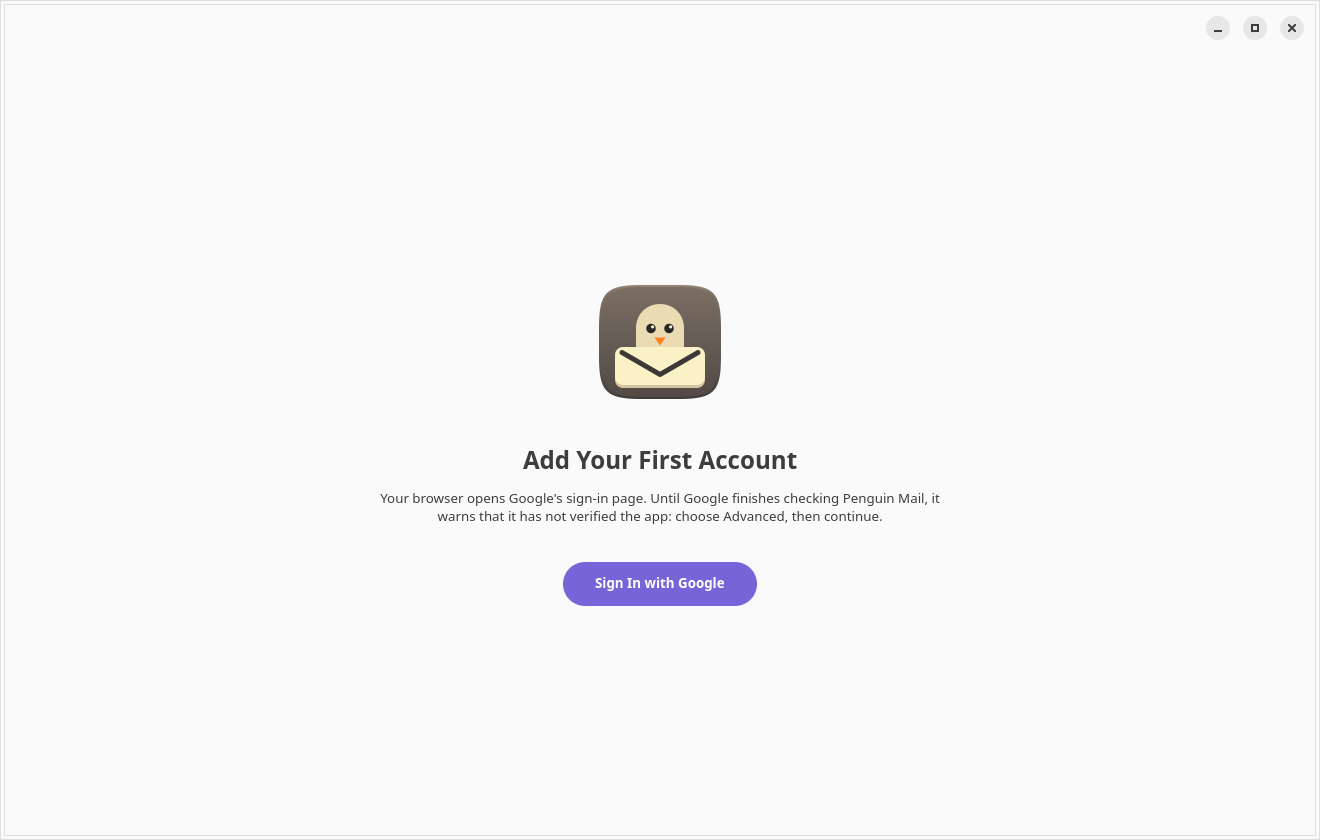
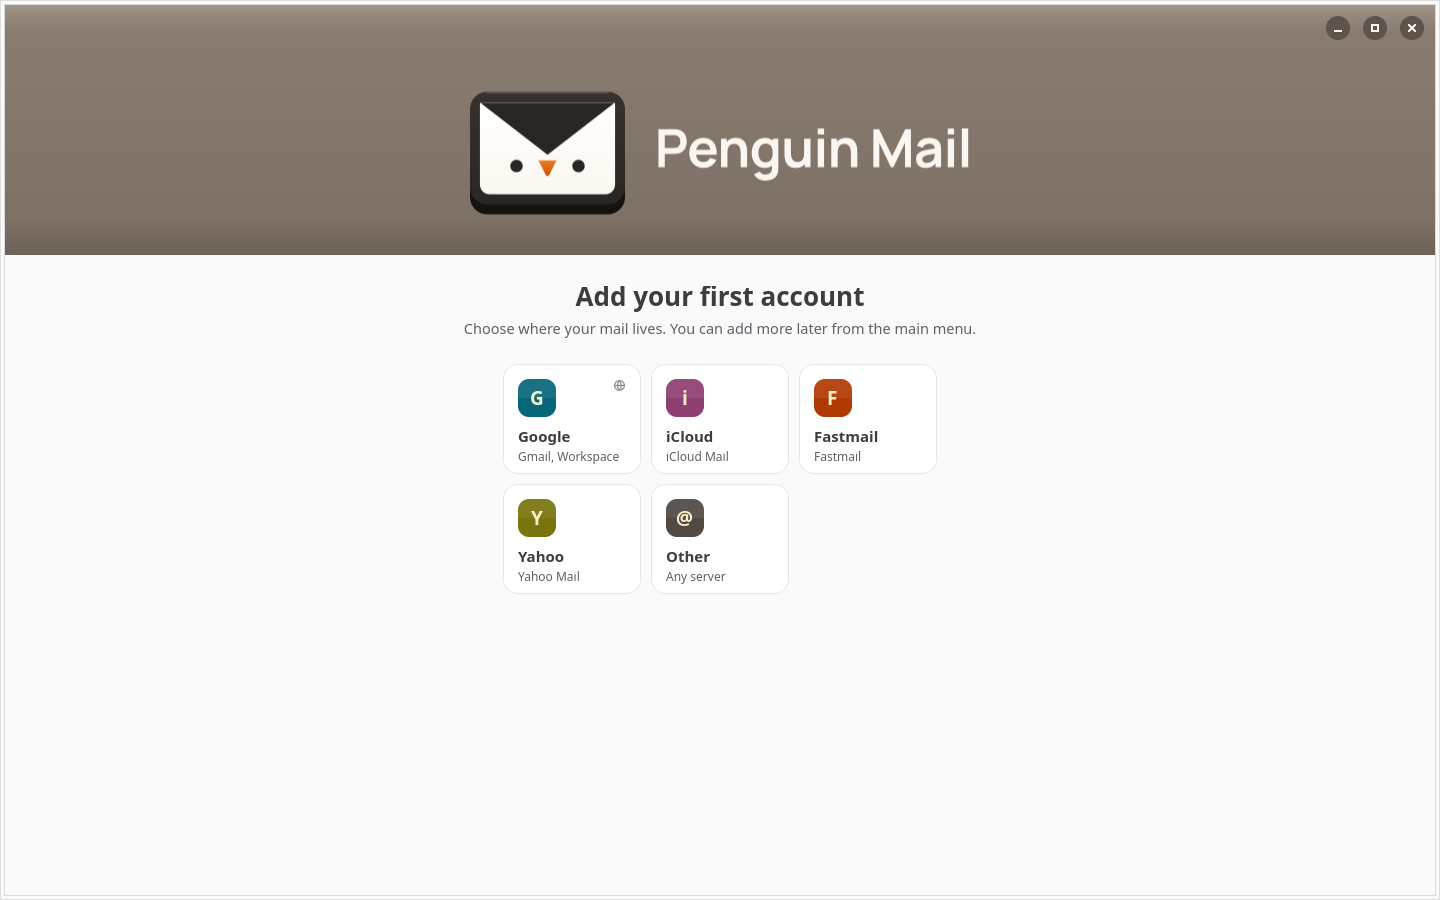
Bring the Add Account pages within a few pixels of the mockups
Each page was photographed in the demo, light and dark, and compared with
its board row by row; the spacings, row heights, card tints and link
positions now land within one or two pixels. The accessibility walk opens
the dialog on its tiles and its Other page, and the welcome screenshot is
retaken from the new first-run window at 1440 by 900.

diff --git a/app/data/style.css b/app/data/style.css
@@ -1243,8 +1243,6 @@ list.post-field > row { min-height: 51px; }
 .post-fields > .post-card { margin-top: 12px; }
 .post-fields > list.post-list { margin-top: 19px; }
 .post-dialog list.boxed-list { box-shadow: 0 0 0 1px var(--post-line); }
-list.post-field.post-wrong { box-shadow: 0 0 0 2px var(--post-err); }
-list.post-field.post-wrong row .title { color: var(--post-err); }
 
 .post-card { padding: 13px 16px 8px; border-radius: 12px; margin-top: 16px; }
 .post-fields > .post-card.post-first-card { margin-top: 17px; margin-bottom: 37px; }
@@ -1337,7 +1335,19 @@ list.post-list row image.post-down-icon { color: var(--post-err); }
 .post-fields > list.post-list.post-tight { margin-top: 15px; }
 
 /* The first-run window. */
-.post-first-title { font-size: 26px; font-weight: 800; margin-top: 30px; }
-.post-first-lede { font-size: 14.5px; color: var(--post-dim); margin-top: 8px; }
-.post-first .post-tiles { margin-top: 26px; margin-bottom: 32px; }
+.post-first-title { font-size: 26px; font-weight: 800; margin-top: 23px; }
+.post-first-lede { font-size: 14.5px; color: var(--post-dim); margin-top: 4px; }
+.post-first .post-tiles { margin-top: 27px; margin-bottom: 32px; }
 .post-waiting .post-note { margin-top: 0; }
+list.post-closed-list > row > box.header { margin: -2px 12px -1px; }
+list.post-field.post-wrong > row,
+list.post-field.post-wrong > row:focus-within { outline: 2px solid var(--post-err); outline-offset: -2px; }
+list.post-field.post-wrong > row label.subtitle,
+list.post-field.post-wrong > row:focus-within label.subtitle { color: var(--post-err); }
+/* The mockup sets a link's arrow 16 px in from the heading above it, with
+   a wider gap to its words than a button usually has. */
+.post-links button.link { margin-left: 16px; }
+.post-links buttoncontent > box { border-spacing: 9px; }
+.post-links buttoncontent image { -gtk-icon-size: 13px; }
+.post-card.with-source .post-card-source { line-height: 1.13; }
+.post-card.with-source .post-links { margin-top: 18px; margin-bottom: 4px; }

diff --git a/app/src/ui/add_account.rs b/app/src/ui/add_account.rs
@@ -350,6 +350,7 @@ impl Card {
         self.title.set_text(title);
         self.body.set_text(body);
         self.source.set_visible(false);
+        self.area.remove_css_class("with-source");
         self.said.set_visible(false);
         while let Some(child) = self.links.first_child() {
             self.links.remove(&child);
@@ -365,6 +366,7 @@ impl Card {
     fn show_source(&self, source: &str) {
         self.source.set_text(source);
         self.source.set_visible(true);
+        self.area.add_css_class("with-source");
     }
 
     fn show_said(&self, said: Option<&str>) {
@@ -1054,9 +1056,22 @@ fn added_page() -> AddedPage {
     folder_list.add_css_class("post-folders");
     let mut folders = Vec::new();
     for (role, icon, name) in [
-        (MailRole::Inbox, "penguin-mail-inbox-symbolic", gettext("Inbox")),
-        (MailRole::Sent, "mail-send-symbolic", gettext("Sent")),
-        (MailRole::Archive, "penguin-mail-archive-symbolic", gettext("Archive")),
+        // The sidebar's own names, so each folder reads as it does there.
+        (
+            MailRole::Inbox,
+            "penguin-mail-inbox-symbolic",
+            crate::ui::Standard::Inbox.name(),
+        ),
+        (
+            MailRole::Sent,
+            "mail-send-symbolic",
+            crate::ui::Standard::Sent.name(),
+        ),
+        (
+            MailRole::Archive,
+            "penguin-mail-archive-symbolic",
+            mailrs_domain::translate::pgettext("mailbox", "Archive"),
+        ),
     ] {
         let state = label("", &["post-folder-state", "numeric"]);
         state.set_xalign(1.0);
@@ -2166,6 +2181,7 @@ impl Dialog {
             page.failed_retry.grab_focus();
         } else {
             page.password.grab_focus();
+            page.password.set_position(-1);
         }
         page.failed
             .area

diff --git a/scripts/screenshots.py b/scripts/screenshots.py
@@ -378,8 +378,8 @@ def welcome():
     # presses the button, so nothing reaches Google.
     run = launch(args=())
     window = window_titled("Penguin Mail")
-    resize(window, 1320, 840)
-    find(name="Sign In with Google", patience=60)
+    resize(window, 1440, 900)
+    find(name="Google, Gmail, Workspace, signs in through your browser", patience=60)
     settle(3)
     capture(window, "welcome")
     return run

diff --git a/CONTEXT.md b/CONTEXT.md
@@ -358,6 +358,8 @@ Terms the code and its docs use for Gmail mail. The `domain` crate holds the cod
 
 **Discovery**: finding the mail servers for an address the person typed. The provider table answers by the exact domain with no network; otherwise the MX match, the domain's own autoconfig file, Mozilla's ISPDB, the MX host's settings, SRV records and a probe run side by side, and the highest-priority step that found something wins, each step dropped after 10 seconds. Only the address's domain goes out, and no name above it is ever built. `mailrs_discover::find`, answering a `Found`: a verdict and candidate servers, each marked with where it came from and whether the person must confirm its host names. _Avoid_: autodetect, autoconfig (which is one of its steps), Autodiscover (Microsoft's, which it never calls).
 
+**Provider advice**: what Add Account's address page says about an address before Continue, from the provider table alone and with nothing sent anywhere: that the provider wants an app password, signs in through the browser, or lets no other mail app in. A provider tile picked on the first page shows its advice before any address is typed. `crate::add_account::post::advice`. _Avoid_: suggestion, which is the correction of a mistyped domain.
+
 **IDLE connection**: the one IMAP connection per account that waits in IDLE (RFC 2177) on the mailbox the caller names, usually the Inbox, so the server reports new mail there as it arrives; a server without IDLE gets no such connection. The adapter ends the IDLE and issues it again every 25 minutes, and the engine keeps one watch across its polls. At most two more connections run sync and actions. `mailrs_imap::ImapClient::idle`. `MailBackend::watch` ends when the server reports a change, which wakes the engine's loop at once. A server that sends more during IDLE than the client takes loses the connection (`Woke::Dropped`); the engine syncs, and the next IDLE waits a minute, doubling at each drop in a row up to 15 minutes. Other mailboxes wait for the slow poll: every 5 minutes with the window open, every 15 with only the tray. A server without IDLE has its Inbox polled every minute. _Avoid_: push connection, listener.
 
 **Next event card**: the card at the foot of the mail sidebar that names the next event on the calendars the person shows, from three hours before it starts, or the event under way until it ends unless another starts within a quarter of an hour. A click opens the event in the calendar. `mailrs::ui::calendar::next::next_up`. _Avoid_: agenda, upcoming widget.

diff --git a/CHANGELOG.md b/CHANGELOG.md
@@ -129,6 +129,11 @@ the [releases page](https://github.com/c9dev/penguin-mail/releases).
   Ctrl+R.
 
 ### Improved
+
+- Add Account and the first window have a new look: pick your provider from
+  a tile, see what it needs before you continue, and follow Google's
+  sign-in, the server lookup and the first download on their own pages,
+  with Cancel and Try Again where you need them.
 - Penguin Mail now describes itself as mail and calendar for Linux, in
   the About window and in app stores.
 
